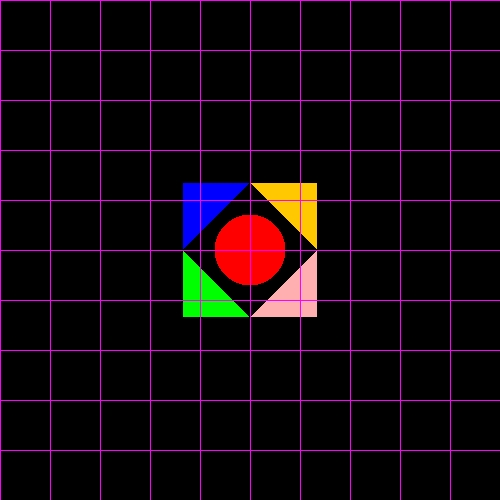
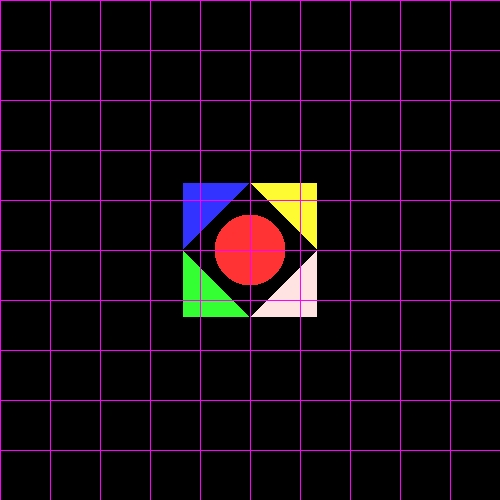
light color

Changed region(s): [[0.36, 0.36, 0.66, 0.66]]

diff --git a/tests/renderer/RenderTest2.java b/tests/renderer/RenderTest2.java
@@ -43,7 +43,7 @@ class RenderTest2 {
         scene.insertImage(triangle2);
         scene.insertImage(triangle3);
         scene.insertImage(triangle4);
-        scene.setFillLight(new AmbientLight(new Color(java.awt.Color.BLACK),1));
+        scene.setFillLight(new AmbientLight(new Color(java.awt.Color.white),0.2));
         scene.setDis(100);
 
         ImageWriter imageWriter = new ImageWriter("Render test", 500, 500, 500, 500);
